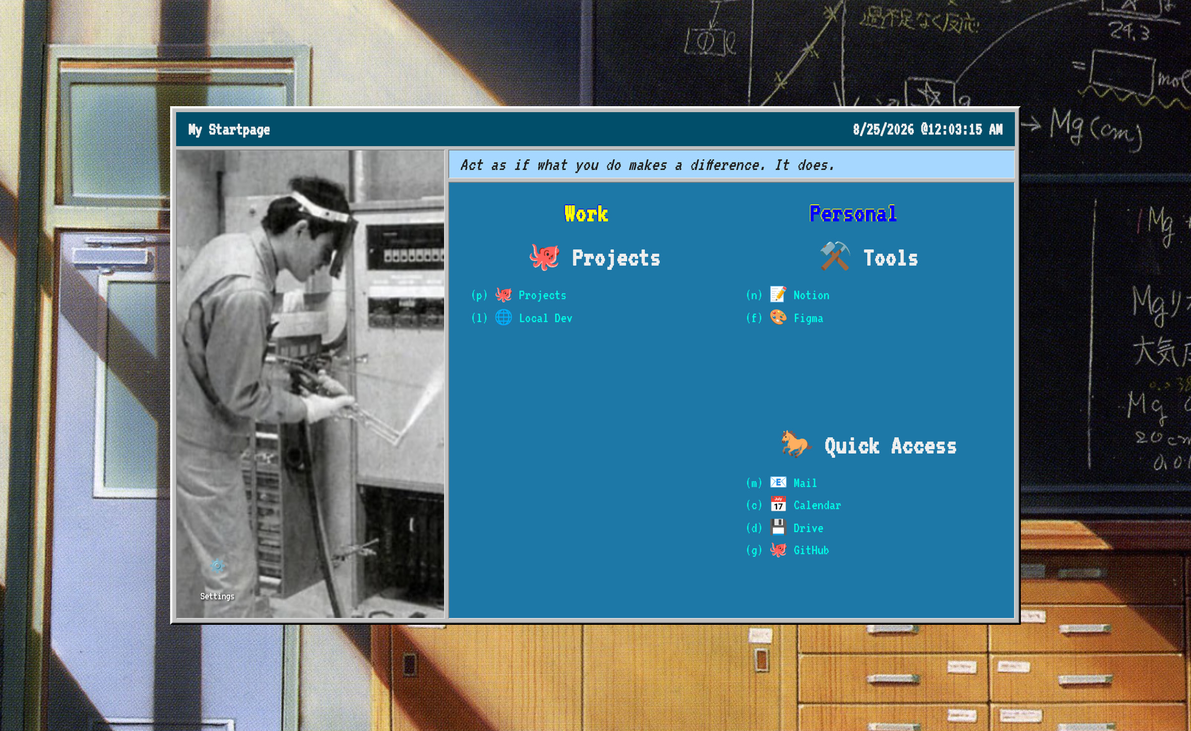
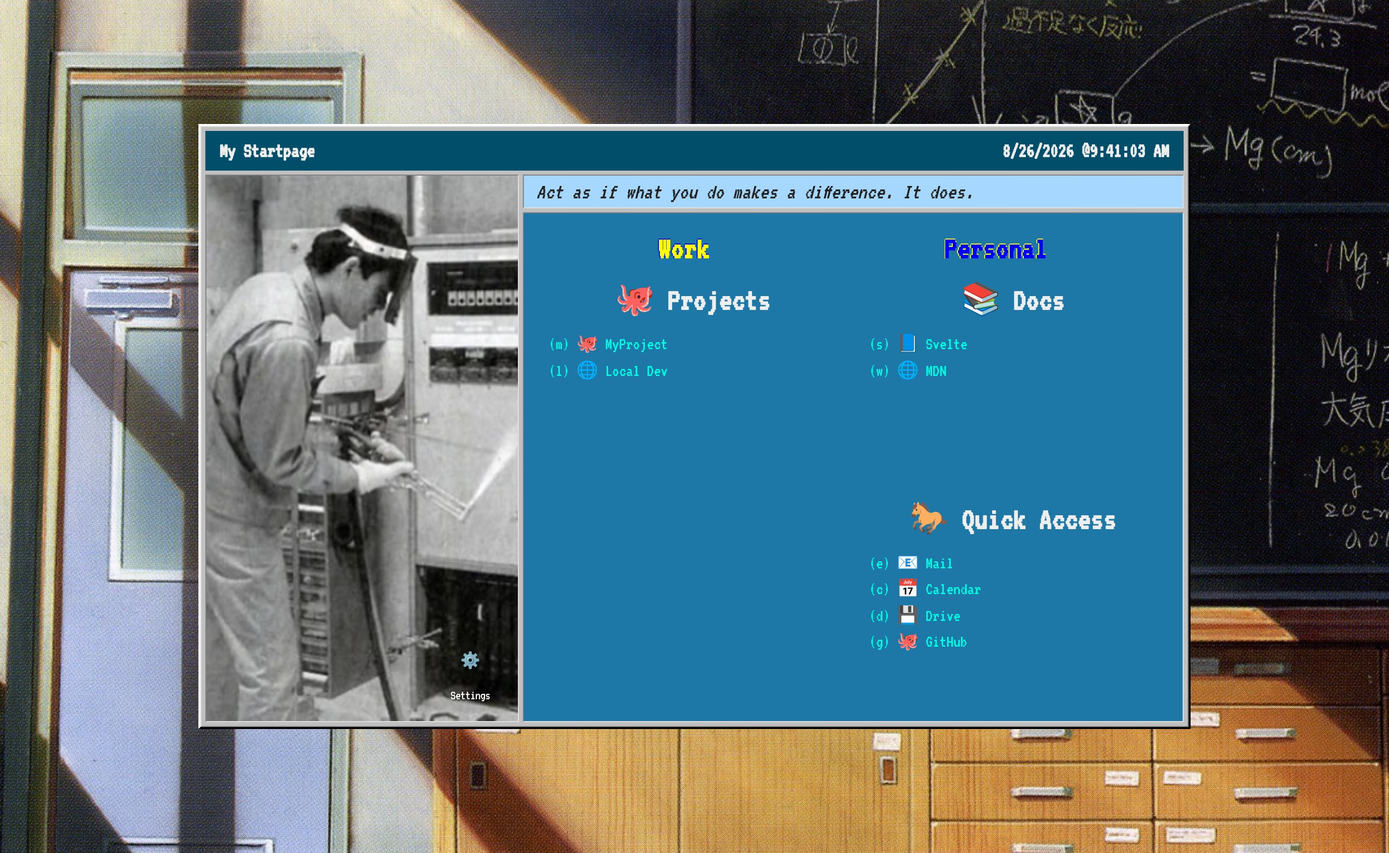
docs: refresh the screenshot with a cleaner sample config (#22)

diff --git a/AGENTS.md b/AGENTS.md
@@ -293,6 +293,27 @@ Two rules keep the window from overflowing, and both are easy to break:
    `+page.svelte` then shrinks a list that still does not fit; it runs after render,
    on resize, and once the webfonts have loaded.
 
+### Regenerating the README Screenshot
+
+`docs/screenshot.jpg` is the default config rendered by a headless browser, so
+it has to be retaken whenever `src/lib/default-config.json` or the layout
+changes. Build, serve the build against a throwaway config so the app writes the
+default one, then capture with Playwright:
+
+```js
+const ctx = await browser.newContext({
+	viewport: { width: 1400, height: 860 },
+	deviceScaleFactor: 2,
+	locale: 'en-US',
+	timezoneId: 'America/Sao_Paulo'
+});
+await ctx.clock.setFixedTime(new Date('2026-08-26T09:41:03-03:00'));
+```
+
+The fixed clock keeps the title bar from showing whatever time the machine
+happened to be at. Keep the result around 2800px wide at JPEG quality 90 -- the
+shot is meant to be HD, not downscaled.
+
 ### Changing the Theme/Colors
 
 Edit CSS variables in `src/routes/+page.svelte` `<style>` block.
